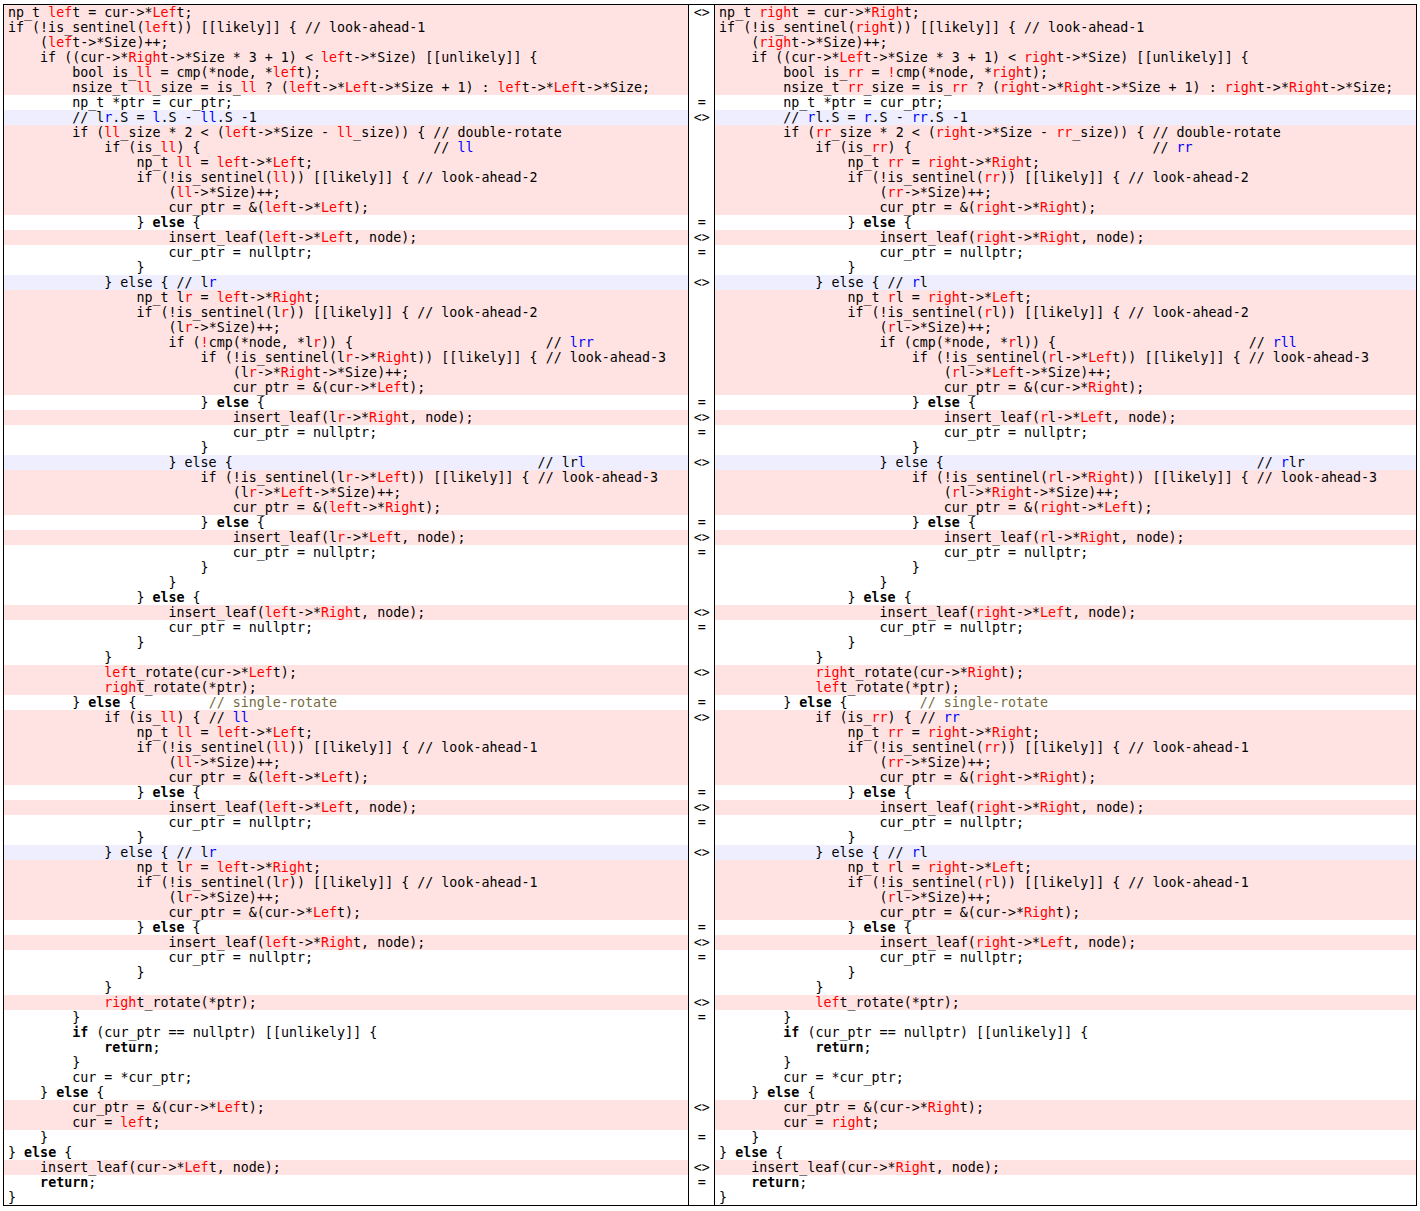
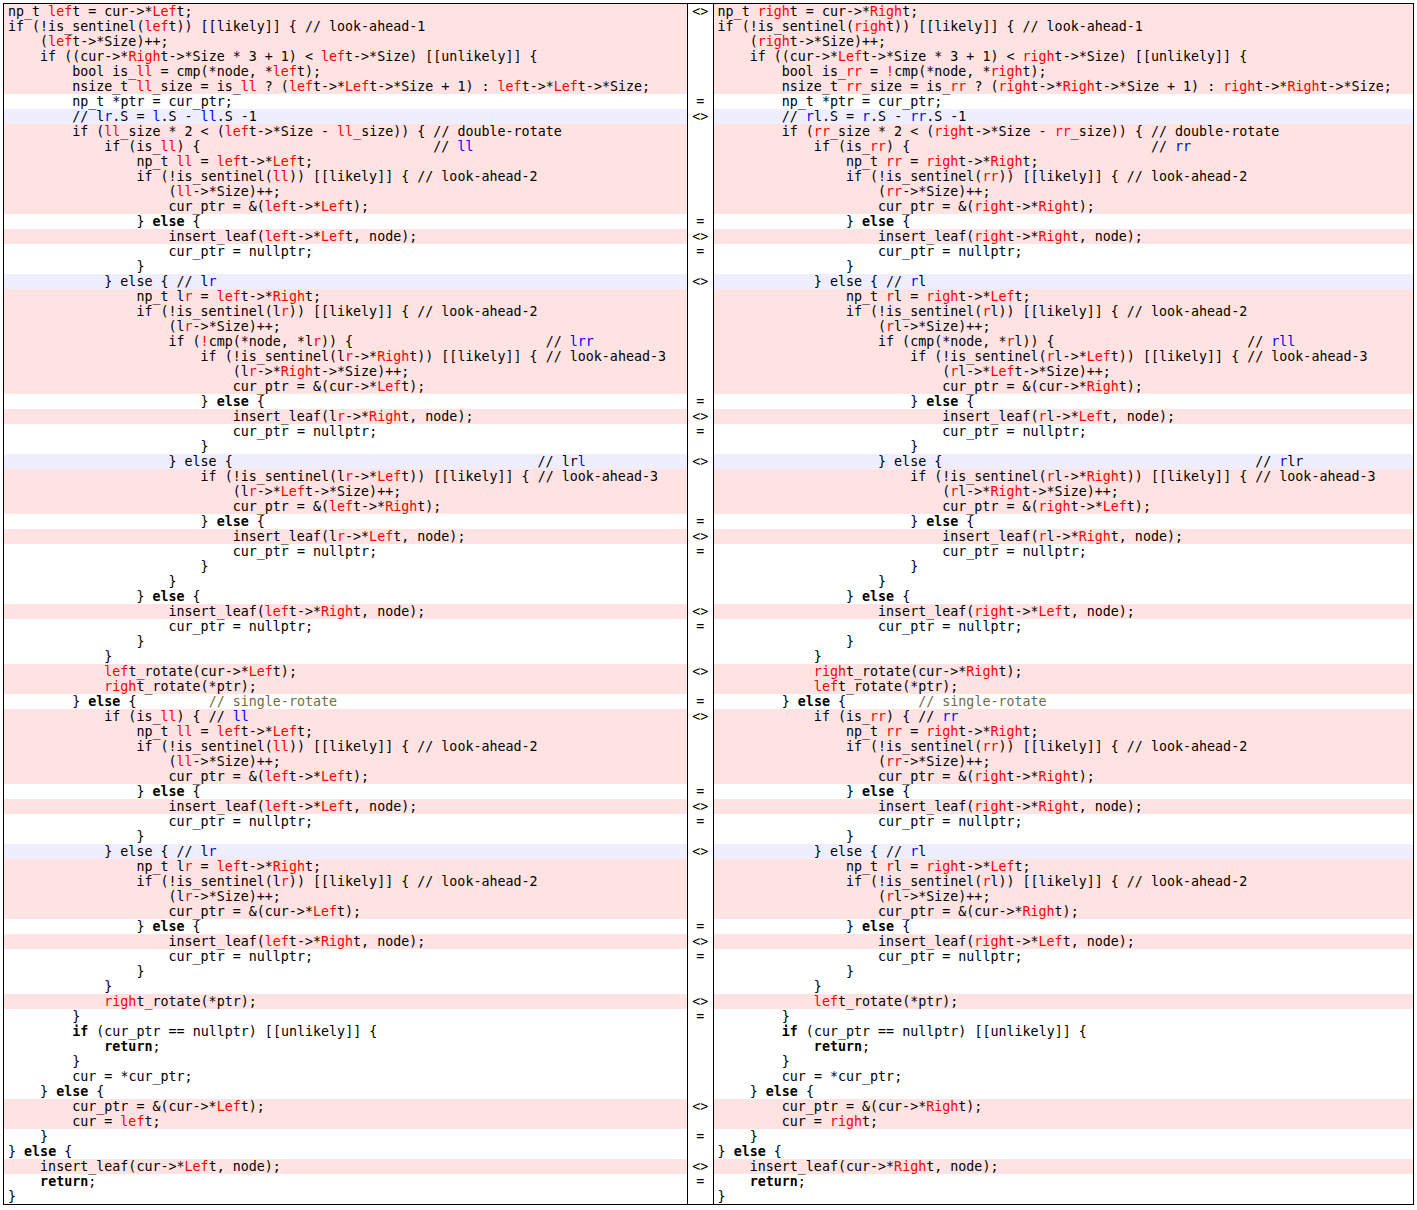
FIx some typos

diff --git a/content/posts/irwbt.md b/content/posts/irwbt.md
@@ -59,7 +59,7 @@ repost:
 - `(v.L.S + 1) * ∆ ≥ (v.R.S + 1)`
 - `(v.R.S + 1) * ∆ ≥ (v.L.S + 1)`
 
-以上的参数`∆`用于判断是否平衡，而参数`Γ`则用于控制是否双旋，当`(v.L.S + 1) * ∆ < (v.R.S + 1)`时，节点`v`发生了右倾，如果`(v.R.R.S + 1) * Γ < (v.R.L.S + 1)`，则对节点`v`向左双旋，否则值对节点`v`向左单旋。而树`v`左倾是右倾的镜像情形，此处无需赘述。Yoichi Hirai的Kazuhiko Yamamoto在2011年的论文[Balancing weight-balanced trees](https://yoichihirai.com/bst.pdf)中已经指明，WBT唯一整数平衡参数`<∆,Γ>`是`<3,2>`。
+以上的参数`∆`用于判断是否平衡，而参数`Γ`则用于控制是否双旋，当`(v.L.S + 1) * ∆ < (v.R.S + 1)`时，节点`v`发生了右倾，如果`(v.R.R.S + 1) * Γ < (v.R.L.S + 1)`，则对节点`v`向左双旋，否则只对节点`v`向左单旋。而树`v`左倾是右倾的镜像情形，此处无需赘述。Yoichi Hirai的Kazuhiko Yamamoto在2011年的论文[Balancing weight-balanced trees](https://yoichihirai.com/bst.pdf)中已经指明，WBT唯一整数平衡参数`<∆,Γ>`是`<3,2>`。
 
 WBT虽然好写，但性能表现一般，而不带parent指针的递归实现（通常）性能则更差。前面提到**自顶向下**的维护可以避免递归，此时不得不提[Engineering Top-Down Weight-Balanced Trees](https://arxiv.org/pdf/1910.07849)这篇论文了，该作者在文中给出了自顶向下WBT的详细性能测试数据，也证明了自顶向下的WBT是可以比RBT性能更好的。有别于该论文的带parent指针的实现，本文使用了不带parent指针的实现，而且经过笔者实践，文中提到的「参数`<3,2>`在自顶向下的情况下可能并非可行选择」这句话并不正确，笔者在2种不同的实现下验证，参数`<3,2>`依然是自顶向下WBT正确的选择，如果在该参数下出现违反平衡，笔者认为可能是代码哪里没写对。
 
@@ -293,7 +293,7 @@ void insert_multi(np_t node) noexcept {
                         } else {         // single-rotate
                             if (is_rr) { // rr
                                 np_t rr = right->*Right;
-                                if (!is_sentinel(rr)) [[likely]] { // look-ahead-1
+                                if (!is_sentinel(rr)) [[likely]] { // look-ahead-2
                                     (rr->*Size)++;
                                     cur_ptr = &(right->*Right);
                                 } else {
@@ -302,7 +302,7 @@ void insert_multi(np_t node) noexcept {
                                 }
                             } else { // rl
                                 np_t rl = right->*Left;
-                                if (!is_sentinel(rl)) [[likely]] { // look-ahead-1
+                                if (!is_sentinel(rl)) [[likely]] { // look-ahead-2
                                     (rl->*Size)++;
                                     cur_ptr = &(cur->*Right);
                                 } else {
